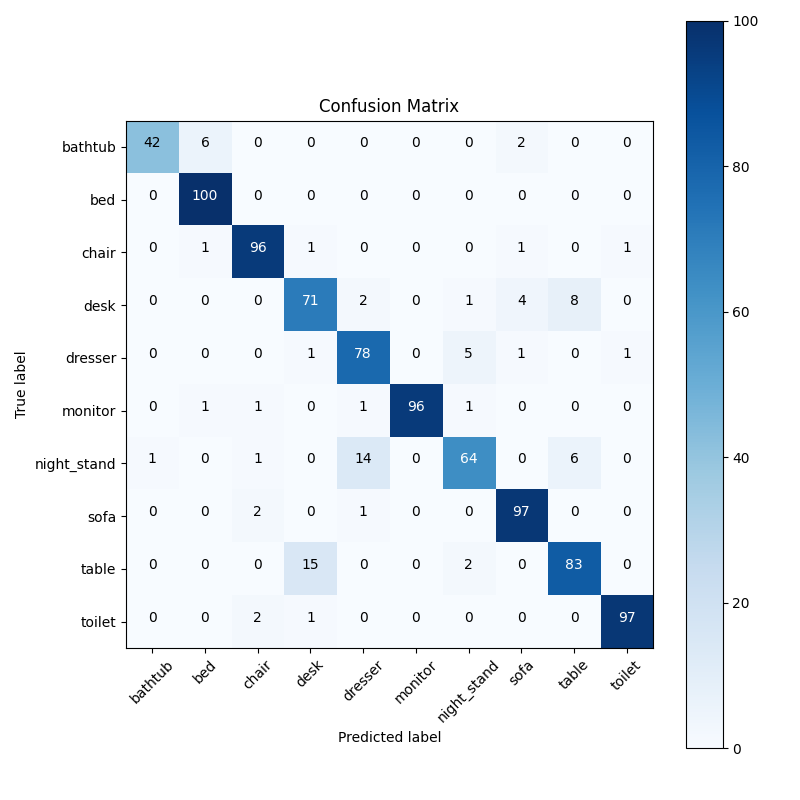
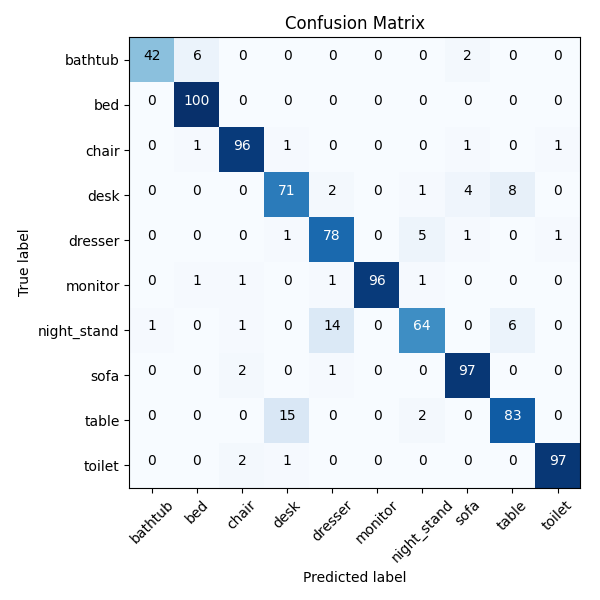
small changes

diff --git a/evaluate.py b/evaluate.py
@@ -83,10 +83,10 @@ sorted_class_names = [class_names[i] for i in sorted_indices]
 sorted_cm = cm[sorted_indices][:, sorted_indices]
 
 # Plot confusion matrix
-plt.figure(figsize=(8, 8))
+plt.figure(figsize=(6, 6))
 plt.imshow(sorted_cm, interpolation="nearest", cmap=plt.cm.Blues)
 plt.title("Confusion Matrix")
-plt.colorbar()
+# plt.colorbar()
 tick_marks = np.arange(len(sorted_class_names))
 plt.xticks(tick_marks, sorted_class_names, rotation=45)
 plt.yticks(tick_marks, sorted_class_names)
